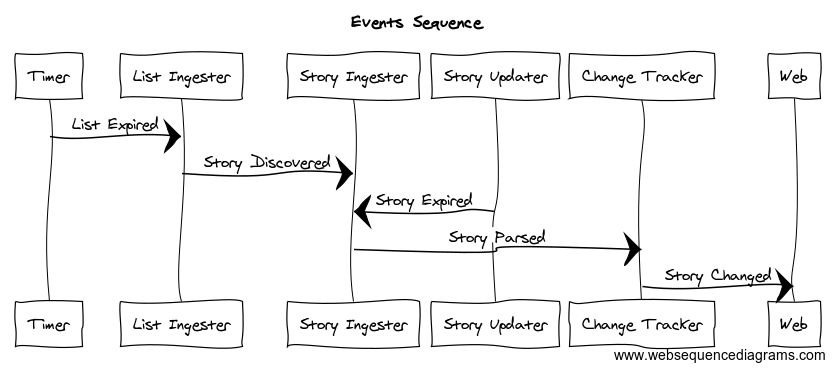
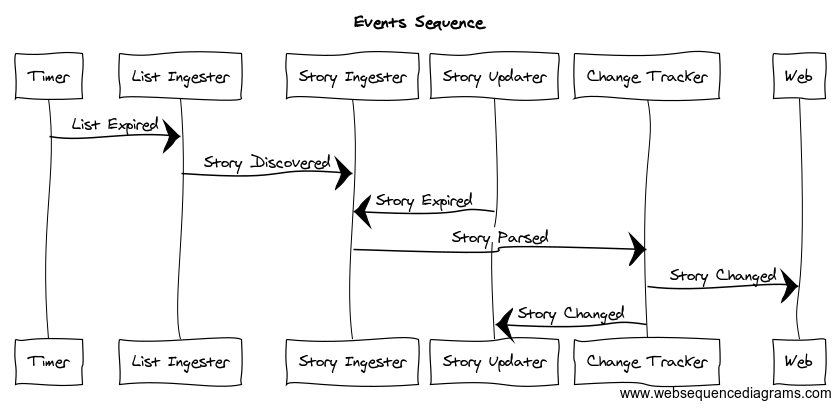
Updated readme and diagram. Added StoryUpdater to solution. Removed StoryDiscovered topic, replaced it with StoryExpired.

diff --git a/server/BuzzStats.Parsing.UnitTests/ParserTest.cs b/server/BuzzStats.Parsing.UnitTests/ParserTest.cs
@@ -1,6 +1,7 @@
 using System;
 using System.Linq;
 using BuzzStats.DTOs;
+using FluentAssertions;
 using Microsoft.VisualStudio.TestTools.UnitTesting;
 using NodaTime;
 using NodaTime.Extensions;
@@ -218,8 +219,7 @@ namespace BuzzStats.Parsing.UnitTests
             Assert.IsTrue(expectedVoters.All(expectedVoter => story.Voters.Any(v => v == expectedVoter)), "Voter");
 
             Assert.AreEqual((int) KnownStoryCategory.Blogs, story.Category);
-
-            Assert.IsTrue(story.Comments.Count() > 0);
+            story.Comments.Should().NotBeEmpty();
         }
 
         [TestMethod]

diff --git a/server/BuzzStats.StoryIngester/Program.cs b/server/BuzzStats.StoryIngester/Program.cs
@@ -10,7 +10,7 @@ namespace BuzzStats.StoryIngester
 {
     public class Program
     {
-        const string InputTopic = "StoryDiscovered";
+        const string InputTopic = "StoryExpired";
         const string OutputTopic = "StoryParsed";
 
         public Program(IParserClient parserClient)

diff --git a/server/BuzzStats.ListIngester/Program.cs b/server/BuzzStats.ListIngester/Program.cs
@@ -11,7 +11,7 @@ namespace BuzzStats.ListIngester
     public class Program
     {
         const string InputTopic = "ListExpired";
-        const string OutputTopic = "StoryDiscovered";
+        const string OutputTopic = "StoryExpired";
 
         protected Program()
         {

diff --git a/README.md b/README.md
@@ -27,20 +27,17 @@ Using `docker-compose up`, you can start various services the app depends on:
 
 ## Services
 
-(Note: this is the future design)
-
 The services are event driven.
 
-| Event             | Triggered By                 | Consumed By     |
-| ----------------- | ---------------------------- | --------------- |
-| List Expired      | Timer                        | List Ingester   |
-| Story Discovered  | List Ingester, Story Updater | Story Ingester  |
-| Story Expired     | Story Updater                | Story Ingester  |
-| Story Parsed      | Story Ingester               | Change Tracker  |
-| Story Changed     | Change Tracker               | Web             |
+| Event             | Triggered By                 | Consumed By        |
+| ----------------- | ---------------------------- | ------------------ |
+| List Expired      | Timer                        | List Ingester      |
+| Story Expired     | List Ingester, Story Updater | Story Ingester     |
+| Story Parsed      | Story Ingester               | Change Tracker     |
+| Story Changed     | Change Tracker               | Web, Story Updater |
 
 * List Ingester: parses listing pages and publishes
-  the stories it discovers as Story Discovered events.
+  the new stories it discovers as Story Expired events.
 * Story Ingester: parses story pages and publishes them
   as Story Parsed events.
 * Story Updater: selects stories that should be rescanned for changes
@@ -57,4 +54,5 @@ List Ingester->Story Ingester: Story Discovered
 Story Updater->Story Ingester: Story Expired
 Story Ingester->Change Tracker: Story Parsed
 Change Tracker->Web: Story Changed
- -->
+Change Tracker->Story Updater: Story Changed
+-->
